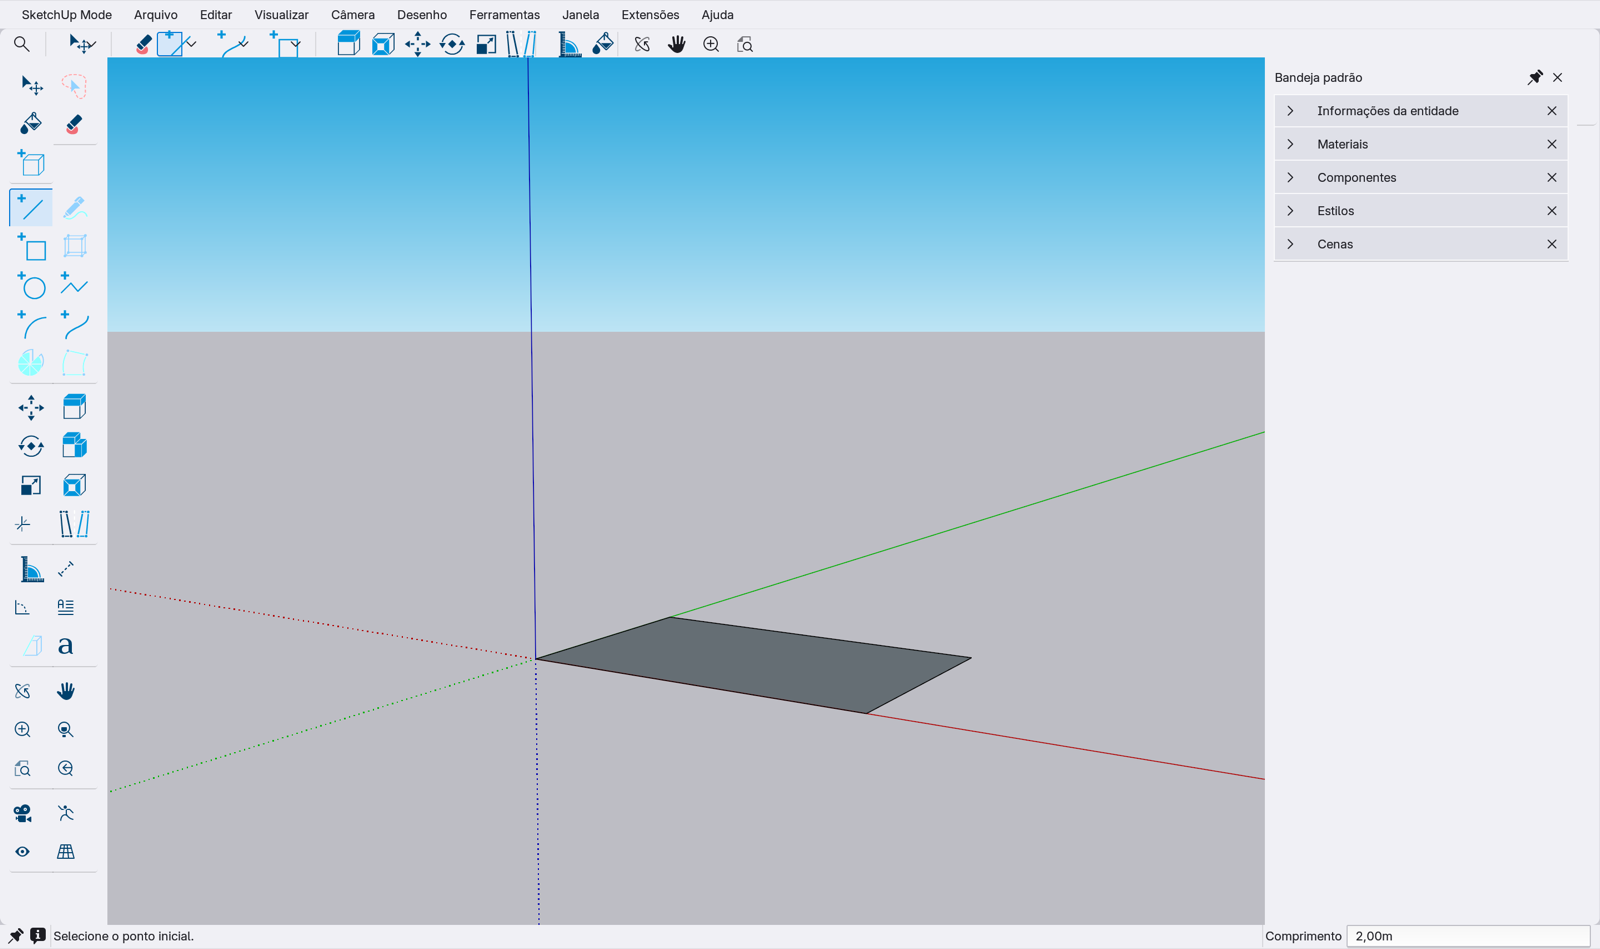
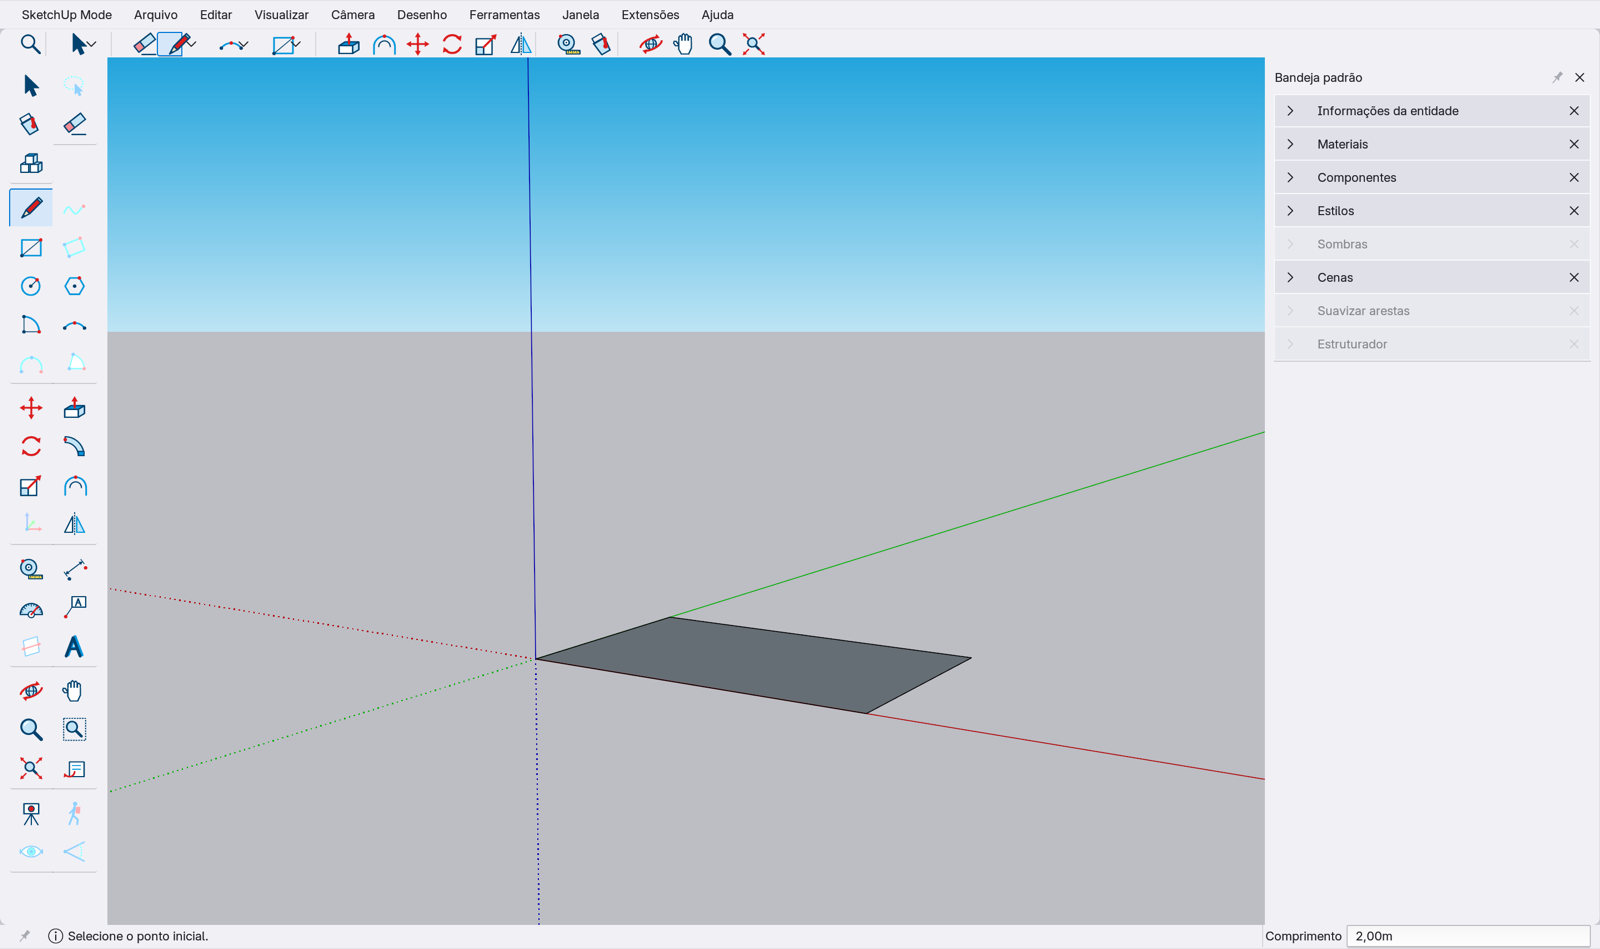
su(A): K = Arestas traseiras (Window), non-tool keys pass through the tool modal, stale inference cleared; prints + side-by-side

diff --git a/scripts/startup/bl_app_templates_system/SketchUp_Mode/su/keymap.py b/scripts/startup/bl_app_templates_system/SketchUp_Mode/su/keymap.py
@@ -34,6 +34,21 @@ VCB_ITEMS = (
     ("su.vcb_key", {"type": 'ESC', "value": 'PRESS'}, None),
 )
 
+# Window shortcuts of commands that are not tools (PLANO §5.3), added only when the operator exists.
+EXTRA_ITEMS = (
+    ("su.style_toggle", {"type": 'K', "value": 'PRESS'}, {"properties": [("prop", "show_back_edges")]}),  # Arestas traseiras
+)
+
+
+def _op_exists(idname):
+    mod, _, name = idname.partition(".")
+    try:
+        getattr(getattr(bpy.ops, mod), name).get_rna_type()
+        return True
+    except (AttributeError, KeyError):
+        return False
+
+
 # Keymaps whose non-modal items are filtered by ALLOW (everything else is kept as in blender_default).
 FILTERED = frozenset({
     "Window", "Screen", "Frames", "User Interface", "3D View Generic", "3D View", "Object Mode",
@@ -126,6 +141,9 @@ def window_items():
         for m in mods:
             args[m] = True
         items.append(("su.tool_activate", args, {"properties": [("tool_id", tid)]}))
+    for idname, args, data in EXTRA_ITEMS:
+        if _op_exists(idname):
+            items.append((idname, args, data))
     pkg = sys.modules[__package__]
     for mod in getattr(pkg, "_active", []):
         for it in getattr(mod, "KEYMAP", ()) or ():

diff --git a/tests/sketchup_mode/unit/test_a_dispatch.py b/tests/sketchup_mode/unit/test_a_dispatch.py
@@ -176,6 +176,12 @@ class TestEvents(DispatchCase):
         self.assertIn("cancel", _names(self.p.calls))
         self.assertFalse(base.DISPATCH.running)
 
+    def test_non_tool_letter_passes_without_cancel(self):
+        self.press()
+        self.assertIs(testing.dispatch(testing.ev('K', 'PRESS', unicode='k')), base.Result.PASS)
+        self.assertTrue(base.DISPATCH.running)
+        self.assertNotIn("cancel", _names(self.p.calls))
+
     def test_cmd_z_cancels_and_passes(self):
         self.press()
         self.assertIs(testing.dispatch(testing.ev('Z', 'PRESS', alt_action=True, unicode='z')), base.Result.PASS)
@@ -248,6 +254,8 @@ class TestKeymapData(unittest.TestCase):
         line = [it for it in items if it[0] == "su.tool_activate" and it[2]["properties"] == [("tool_id", "su.line")]]
         self.assertEqual(len(line), 1)
         self.assertEqual(line[0][1]["type"], 'L')
+        k = [it for it in items if it[1]["type"] == 'K']
+        self.assertEqual([it[0] for it in k], ["su.style_toggle"])
 
     def test_allow_list(self):
         data = {name: content for name, _args, content in keymap.keyconfig_data()}

diff --git a/scripts/startup/bl_app_templates_system/SketchUp_Mode/su/tools/base.py b/scripts/startup/bl_app_templates_system/SketchUp_Mode/su/tools/base.py
@@ -549,7 +549,7 @@ class Dispatcher:
         if self.running and not st.vcb_buffer and shortcut_tool(ev):
             self.cancel(tc)
             return Result.PASS
-        return Result.RUNNING if self.running and ev.unicode else Result.PASS
+        return Result.PASS      # other keys (e.g. K = Arestas traseiras) reach the Window keymap; the op continues
 
     def _count_click(self, ev):
         p = self._press

diff --git a/doc/sketchup_mode/checklists/WS_A.md b/doc/sketchup_mode/checklists/WS_A.md
@@ -20,22 +20,23 @@ Legenda: `[ ]` pendente · `[~]` em andamento · `[x]` feito. Brief: `PLANO.md` 
 
 ## Fatia vertical (§9.1-MA) — parte de A
 - [x] `run.sh`/`driver.py` do spike → `dev_env.sh`/harness (completo: `run.sh`, `shot.sh`+`scn_shot`, harness com mouse/teclado/`type_text`/`world_xy`/`state`/`stats`/`install_fakes`)
-- [x] registry/auto-descoberta (`registry.optional`), `base` + `su.tool_event` + gizmo de hover (`SU_GGT_hover`)
+- [x] registry/auto-descoberta (`registry.optional`), `base` + `su.tool_event` + hover (item MOUSEMOVE do keymap da ferramenta → `su.tool_event`, PASS_THROUGH)
 - [x] keymap `Window` + `su.vcb_key`/`su.vcb_capture` (+ keyconfig por lista de permissão)
 - [x] undo (serial), session/eventos (`hold/release` de prontidão), `testing`, harness
 - [x] **Linha** (AC-LIN-1, AC-LIN-6, AC-LIN-7 + cadeia/duplo clique/arrasto/Esc) — passa a E após M-A
-- [ ] Integrar C (vcb/inferência reais) e D (visual) quando entrarem; fechar M-A com E (Retângulo)
+- [x] Integrar B, C (vcb `set_applier`, esquema `line`, inferência real) e D (visual, `su_ui_ready`, K = Arestas traseiras)
+- [ ] Fechar M-A com E (Retângulo 2×3 + Cmd+Z no `scn_smoke`) + print lado a lado vazio × ref 2
 
 ## Sub-checklist §9.2-A
 1. [x] dev_env/run/run_unit/run_gui a partir de `visual_spike/run.sh` + `driver.py` (lock, splash, envs DATAFILES/EXTENSIONS, independente do tamanho da janela)
 2. [x] auto-descoberta + registry + eventos + settings + i18n (detecção de duplicatas)
-3. [x] `base`: `su.tool_event` (PRESS/RELEASE; PASS para CLICK/CLICK_DRAG/Ctrl), gizmo de hover, cliques em Python, arrasto→2º clique, política de erro
+3. [x] `base`: `su.tool_event` (PRESS/RELEASE; PASS para CLICK/CLICK_DRAG/Ctrl), hover, cliques em Python, arrasto→2º clique, política de erro
 4. [x] keymap por lista de permissão + itens `Window` na ordem §3.5 + poll; `su.vcb_key` + `su.vcb_capture`
 5. [x] undo: serial em `scene.su_undo_serial`, `before_change`/`push`, restauração de seleção em undo/redo
 6. [x] session por eventos + `undo.init`; invariante sem objeto ativo
 7. [x] Linha (fatia) → passar a E (após M-A)
 8. [x] `testing.dispatch/hover/set_clock/state_dump/doc_stats`
-9. [~] `shot.sh` (feito) + `compare.sh`/`compose.py` + sondas
+9. [~] `shot.sh` + `compare.sh`/`compose.py` (feitos) + sondas
 10. [ ] menus de contexto via Ctrl+clique e órbita Ctrl+Cmd no `Window` (com G)
 11. [ ] prefs com backup/restore + S-E (ida e volta de template, kill -9)
 12. [ ] Integração contínua, rodadas de prints, CHECKLIST mestre
@@ -53,10 +54,11 @@ Legenda: `[ ]` pendente · `[~]` em andamento · `[x]` feito. Brief: `PLANO.md` 
 - Agentes isolados em worktree: o verificador do Claude Code recusa `source dev_env.sh` direto no Bash (o script roda `git rev-parse`); contorno: um wrapper `zsh <arquivo>.sh` que faz `cd <worktree> && source tools/sketchup_mode/dev_env.sh X && ...`.
 
 ### Fatia (notas)
-- Despacho único `tools.base.DISPATCH.handle(tc, ev, inf)` para o modal real (`su.tool_event`), o gizmo de hover, o keymap `Window` e `testing.dispatch` (os testes headless exercitam o roteamento real). Cmd+Z no modal = cancelar + PASS_THROUGH (o undo roda em seguida). Shift = trava (`STATE.locks.shift`) no despacho; setas → `inference.lock_from_arrow` (C).
+- Despacho único `tools.base.DISPATCH.handle(tc, ev, inf)` para o modal real (`su.tool_event`), o hover, o keymap `Window` e `testing.dispatch` (os testes headless exercitam o roteamento real). Cmd+Z no modal = cancelar + PASS_THROUGH (o undo roda em seguida). Shift = trava (`STATE.locks.shift`) no despacho; setas → `inference.lock_from_arrow` (C).
 - Medidas: A chama `vcb.feed(ev)` (C); em `'APPLY'` A lê `STATE.vcb_buffer`, roteia (`DISPATCH.apply_vcb`: rodando → `tool.vcb`; ocioso com `last_action` → `reapply` + `undo.push("undo.adjust")`; ocioso sem → `tool.vcb`) e limpa o buffer. **C**: `feed` não limpa o buffer no APPLY; `parse` levanta exceção (ou devolve vazio) em erro → `STATE.vcb_error`. `wm.su_vcb.field` (get = buffer ou valor; set = aplicar) — **D** desenha `prop(wm.su_vcb, "field")`.
-- Ferramentas: `catalog.register` (ORDER 390) cria um `WorkSpaceTool` por `ToolMeta` TOOL/NAV (keymap PRESS/RELEASE → `su.tool_event`, widget `SU_GGT_hover`); **D** monta o LTS com `catalog.lts_tooldefs()` (registrados usam o `_bl_tool`; os demais = placeholder; clique em placeholder → "Em breve" e volta à ferramenta anterior). Cliques na toolbar via `wm.tool_set_by_id` são percebidos pelo desenho/hover (sync); preferir `su.tool_activate`.
+- Ferramentas: `catalog.register` (ORDER 390) cria um `WorkSpaceTool` por `ToolMeta` TOOL/NAV (keymap LEFTMOUSE PRESS/RELEASE + MOUSEMOVE → `su.tool_event`; sem gizmo: o estilo de D usa `space.show_gizmo = False`, que desliga todo gizmo, então o hover vai pelo keymap); **D** monta o LTS com `catalog.lts_tooldefs()` (registrados usam o `_bl_tool`; os demais = placeholder; clique em placeholder → "Em breve" e volta à ferramenta anterior). Cliques na toolbar via `wm.tool_set_by_id` são percebidos pelo desenho/hover (sync); preferir `su.tool_activate`.
 - Keyconfig: não há `presets/keyconfig/SketchUp_Mode.py` (a pasta do template não está nos caminhos de presets); `keymap.py` gera "SketchUp_Mode" a partir de `blender_default` com lista de permissão e ativa por timer (depois do `keyconfig_init` do Blender); restaura o anterior no unregister.
 - Undo inicial: o Blender monta a pilha de undo DEPOIS do `load_post` → o que os donos fazem no evento `"load"` já entra no passo "Original" ("abrir → Cmd+Z → Modelo existe" por construção); `undo.init` só é empurrado se algo mudar depois (passos por timer).
 - Prontidão: **D** (passos por timer) chama `session.hold("d.startup")` no `"load"` e `session.release("d.startup")` no último passo.
-- B entrou (5e6bb2f): Linha usa `Document`/`add_edge` reais (`add_edge` já roda `auto_faces`). C/D ainda ausentes: testes e `scn_a` usam `tests/sketchup_mode/unit/fakes.py` (vcb, inferência mínima) só para módulos que não existem.
+- B, C e D integrados (até 0be0a33): Linha usa `Document`/`add_edge` (já roda `auto_faces`), `vcb.feed/parse` e `ENGINE.query` reais. `fakes.py` só entra para módulo ausente (hoje nenhum). Teclas que não são de ferramenta passam pelo modal sem cancelar (K funciona desenhando).
+- `scn_a` (27 checks): L sobre a Bandeja, hover → "Ponto de origem", Ctrl+clique não inicia, retângulo 3×2 pelas Medidas (1 face 6 m², normal −Z, 4 undos), MMB no meio da cadeia, `3` Enter sobre a Bandeja (modal) e `4` Enter ocioso (captura → Ajustar), Cmd+Z ×2. Prints: `doc/sketchup_mode/screens/a_*.png`.
